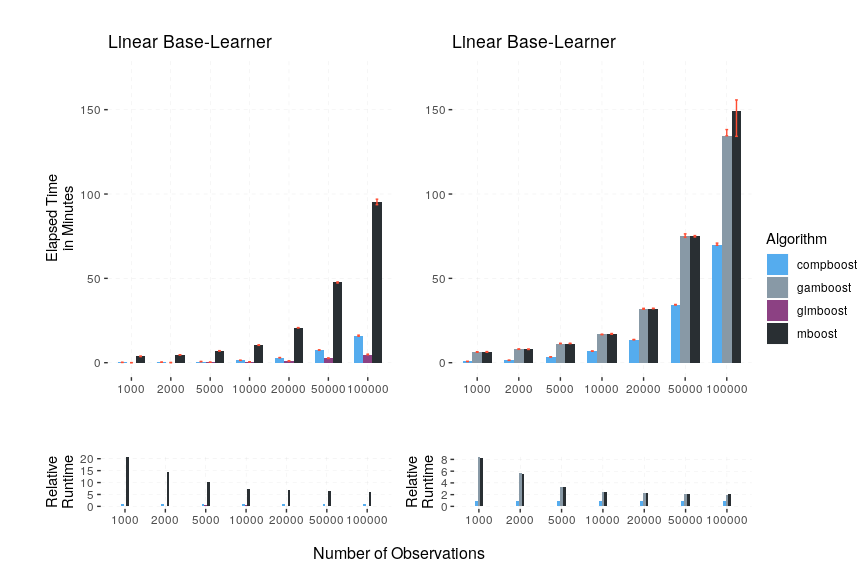
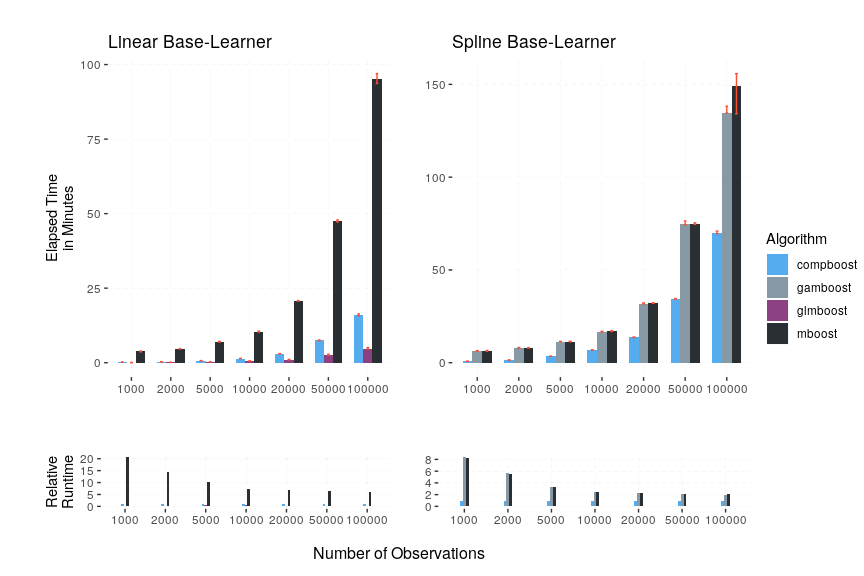
update benchmark

diff --git a/benchmark/Readme.md b/benchmark/Readme.md
@@ -6,46 +6,82 @@ Xeon(R) CPU E5-2650 v2 @ 2.60GHz 62GiB System` using the `R` package
 `batchtools`.
 
 This document was automatically created using `drake`. To recreate this
-document just source `drake_runtime_benchmark.R`.
+document just source `drake_benchmark.R`.
 
 ## Runtime Benchmark
 
-To access the raw results of the runtime benchmark you need to load the
-registry:
+To access the raw results you need to load the registry:
 
 After preprocessing the raw data are stored into a `data.frame` where
 each row represents a job with instances like the elapsed time and the
 dimension of the simulated data:
 
-|     | job.id |    time | learner | iters | algo      | nrows | ncols |
-| --- | -----: | ------: | :------ | ----: | :-------- | ----: | ----: |
-| 144 |    144 |  0.8205 | spline  |   100 | gamboost  |  2000 |  1001 |
-| 457 |    457 | 10.6092 | linear  |  1500 | mboost    | 10000 |  1001 |
-| 255 |    255 |  1.4300 | spline  |  1500 | compboost |  2000 |  1001 |
-| 492 |    492 |  0.0848 | spline  |  1500 | gamboost  |  2000 |    11 |
-| 502 |    502 |  0.3844 | spline  |  1500 | gamboost  |  2000 |    51 |
-| 111 |    111 |  1.5987 | linear  |   500 | mboost    |  2000 |  1001 |
-| 109 |    109 |  0.3911 | linear  |   100 | mboost    |  2000 |  1001 |
-| 253 |    253 |  1.4084 | spline  |  1500 | compboost |  2000 |  1001 |
-| 162 |    162 | 25.2750 | spline  |  5000 | gamboost  |  2000 |  1001 |
-| 225 |    225 |  0.0733 | spline  |  1500 | compboost |  2000 |    51 |
+| job.id |    time | learner | iters | algo      | nrows | ncols |
+| -----: | ------: | :------ | ----: | :-------- | ----: | ----: |
+|    144 |  0.8205 | spline  |   100 | gamboost  |  2000 |  1001 |
+|    457 | 10.6092 | linear  |  1500 | mboost    | 10000 |  1001 |
+|    255 |  1.4300 | spline  |  1500 | compboost |  2000 |  1001 |
+|    492 |  0.0848 | spline  |  1500 | gamboost  |  2000 |    11 |
+|    502 |  0.3844 | spline  |  1500 | gamboost  |  2000 |    51 |
+|    111 |  1.5987 | linear  |   500 | mboost    |  2000 |  1001 |
+|    109 |  0.3911 | linear  |   100 | mboost    |  2000 |  1001 |
+|    253 |  1.4084 | spline  |  1500 | compboost |  2000 |  1001 |
+|    162 | 25.2750 | spline  |  5000 | gamboost  |  2000 |  1001 |
+|    225 |  0.0733 | spline  |  1500 | compboost |  2000 |    51 |
 
-The preprocessing can be reproduced by taking a look at how
-`raw.runtime.benchmark.data` was created within the
-`drake_runtime_benchmark.R` script. This also applies for the following
-graphics.
+The preprocessing is defined in the `drake_runtime_benchmark.R` script
+where `raw.runtime.benchmark.data` is created. This also applies for the
+following graphics.
+
+For any of the following bars with a height of zero it was not possible
+to execute the algorithm with the corresponding specification.
 
 ### Increasing Number of Iterations
 
-<img src="Readme_files/figure-gfm/unnamed-chunk-4-1.png" width="100%" style="display: block; margin: auto;" />
-
-### Increasing Number of Base-Learner
+While increasing the number of iterations we fixed the number of
+observations at 2000, and the number of feature at 1000. Under this
+configuration we achieve a 15 times faster fitting process with
+`compboost` compared to `mboost` in boosting linear base-learner.
+Nevertheless, `glmboost` is faster due to the internal structure of
+`glmboost` with that all base-learners can fitted in one matrix
+multiplication. But, this approach is not suitable with `compboost`
+since it does not fit into the object-oriented system we provide. This
+is due to the flexibility in specifying ordinary base-learner
+combination and not making the whole fitting process conditionally on
+the used base-learners. Nevertheless, using spline base-learner,
+`compboost` is about five times faster than `mboost` and `glmboost`
+(which is just a wrapper of the original `mboost`
+algorithm).
 
 <img src="Readme_files/figure-gfm/unnamed-chunk-5-1.png" width="100%" style="display: block; margin: auto;" />
 
+Note that the relative factor highly depends on the number of
+observations. This behavior is described above.
+
+### Increasing Number of Base-Learner
+
+For increasing the number of base-learners we get a equal behavior as
+for increasing the number of iterations. Nevertheless, with `mboost` it
+was not able to conduct the boosting on 4000 features while `compboost`
+it was. For this experiments we fix the number of observations at 2000
+and the number of iterations at
+1500.
+
+<img src="Readme_files/figure-gfm/unnamed-chunk-7-1.png" width="100%" style="display: block; margin: auto;" />
+
 ### Increasing Number of Observations
 
-<img src="Readme_files/figure-gfm/unnamed-chunk-6-1.png" width="100%" style="display: block; margin: auto;" />
+This may have the biggest effect on computation time since increasing
+the number of observations affects the allocated memory as well as the
+size of the internal matrix multiplications.
+
+<!--
+- C++ meta-code is much faster then R and matrix multiplication does not have such a huge weight for small n
+- With larger n, the meta-code becomes less weight and the matrix multiplications are dominating the runtime
+- In some point the relative runtime has a minimum, but for larger matrix multiplications it should increase again
+-->
+
+<img src="Readme_files/figure-gfm/unnamed-chunk-8-1.png" width="100%" style="display: block; margin: auto;" />
 
 <!--
 ### Memory Benchmark
